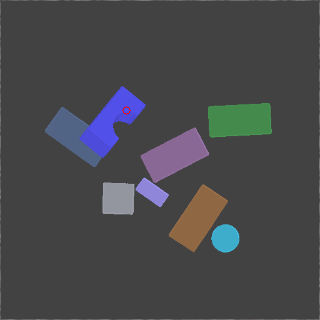
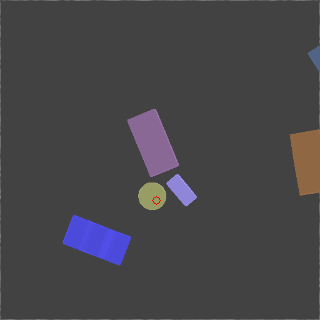
fix some bugs

Changed region(s): [[0.125, 0.25, 0.875, 0.8438], [0.9062, 0.4062, 1.0, 0.625], [0.9688, 0.125, 1.0, 0.2188]]

diff --git a/main_irb360.py b/main_irb360.py
@@ -428,10 +428,19 @@ def main(args):
         empty_threshold = 200  # 기존 300 → 200으로 낮춤
         if is_sim and is_testing:
             empty_threshold = 10
-        if np.sum(stuff_count) < empty_threshold or (is_sim and no_change_count[0] > 10):
+        
+        # 실제 물체 개수 체크 (1개 이하면 씬 재시작)
+        actual_object_count = len(robot.object_handles) if hasattr(robot, 'object_handles') else 0
+        objects_too_few = is_sim and actual_object_count <= 1
+        
+        if objects_too_few:
+            print(f'[RESET] Too few objects remaining ({actual_object_count} <= 1)! Restarting scene...')
+        
+        if np.sum(stuff_count) < empty_threshold or (is_sim and no_change_count[0] > 10) or objects_too_few:
             no_change_count = [0]
             if is_sim:
-                print('Not enough objects in view (value: %d)! Repositioning objects.' % (np.sum(stuff_count)))
+                if not objects_too_few:
+                    print('Not enough objects in view (value: %d)! Repositioning objects.' % (np.sum(stuff_count)))
                 robot.restart_sim()
                 robot.add_objects()
                 if is_testing: # If at end of test run, re-load original weights (before test run)
@@ -634,7 +643,7 @@ if __name__ == '__main__':
     parser.add_argument('--method', dest='method', action='store', default='reinforcement',                               help='set to \'reactive\' (supervised learning) or \'reinforcement\' (reinforcement learning ie Q-learning)')
     parser.add_argument('--grasp_rewards', dest='grasp_rewards', action='store_true', default=True,                        help='use immediate rewards (from change detection) for pushing?')
     parser.add_argument('--future_reward_discount', dest='future_reward_discount', type=float, action='store', default=0.2)  # 논문 기준: γ = 0.2
-    parser.add_argument('--experience_replay', dest='experience_replay', action='store_true', default=False,              help='use prioritized experience replay?')
+    parser.add_argument('--experience_replay', dest='experience_replay', action='store_true', default=True,              help='use prioritized experience replay?')
     parser.add_argument('--double_dqn', dest='double_dqn', action='store_true', default=False,                            help='use Double DQN for more stable learning (prevents Q-value overestimation)')
     parser.add_argument('--target_update_freq', dest='target_update_freq', type=int, action='store', default=100,         help='frequency of target network update for Double DQN (iterations)')
     parser.add_argument('--dueling_dqn', dest='dueling_dqn', action='store_true', default=False,                          help='use Dueling DQN architecture (Value + Advantage streams)')

diff --git a/DQNTrainer.py b/DQNTrainer.py
@@ -593,20 +593,23 @@ class DQNTrainer(object):
                 grasp_loss.backward()
                 loss_value = grasp_loss.cpu().data.numpy()
 
-                opposite_rotate_idx = int((best_pix_ind[0] + self.model.num_rotations/2) % self.model.num_rotations)
+                # Opposite rotation backward: num_rotations > 1일 때만 수행
+                # num_rotations=1일 때 opposite_rotate_idx=0이므로 같은 rotation에 대해 
+                # 두 번 backward하게 되어 gradient가 2배가 됨 (learning rate 2배 효과)
+                # → 학습 불안정성 초래할 수 있으므로 스킵
+                if self.model.num_rotations > 1:
+                    opposite_rotate_idx = int((best_pix_ind[0] + self.model.num_rotations/2) % self.model.num_rotations)
 
-                grasp_predictions, state_feat = self.forward(color_heightmap, depth_heightmap, is_volatile=False, specific_rotation=opposite_rotate_idx)
+                    grasp_predictions, state_feat = self.forward(color_heightmap, depth_heightmap, is_volatile=False, specific_rotation=opposite_rotate_idx)
 
-                if self.use_cuda:
-                    grasp_loss = self.criterion(self.model.output_prob[0][0].view(1, output_size[0], output_size[1]), Variable(torch.from_numpy(label).float().cuda())) * Variable(torch.from_numpy(label_weights).float().cuda(),requires_grad=False)
-                else:
-                    grasp_loss = self.criterion(self.model.output_prob[0][0].view(1, output_size[0], output_size[1]), Variable(torch.from_numpy(label).float())) * Variable(torch.from_numpy(label_weights).float(),requires_grad=False)
+                    if self.use_cuda:
+                        grasp_loss = self.criterion(self.model.output_prob[0][0].view(1, output_size[0], output_size[1]), Variable(torch.from_numpy(label).float().cuda())) * Variable(torch.from_numpy(label_weights).float().cuda(),requires_grad=False)
+                    else:
+                        grasp_loss = self.criterion(self.model.output_prob[0][0].view(1, output_size[0], output_size[1]), Variable(torch.from_numpy(label).float())) * Variable(torch.from_numpy(label_weights).float(),requires_grad=False)
 
-                grasp_loss = grasp_loss.sum()
-                grasp_loss.backward()
-                loss_value = grasp_loss.cpu().data.numpy()
-                
-                loss_value = loss_value/2
+                    grasp_loss = grasp_loss.sum()
+                    grasp_loss.backward()
+                    loss_value = (loss_value + grasp_loss.cpu().data.numpy()) / 2  # 두 loss 평균
 
             print('Training loss: %f' % (loss_value))
             self.optimizer.step()

diff --git a/DQNModels.py b/DQNModels.py
@@ -181,9 +181,44 @@ class DQN(nn.Module):
         return interm_feat
 
     def _initialize_weights(self):
-        for m in self.modules():
-            if isinstance(m, nn.Conv2d): 
-                nn.init.kaiming_normal_(m.weight.data)
-            elif isinstance(m, nn.BatchNorm2d):
-                nn.init.constant_(m.weight, 1)
-                nn.init.constant_(m.bias, 0)
+        """
+        새로 추가된 레이어만 초기화 (Pretrained DenseNet 백본 제외)
+        
+        주의: self.modules()는 모든 하위 모듈을 순회하므로,
+        feature_tunk.dense121의 pretrained weights까지 덮어쓰게 됨.
+        따라서 새로 추가된 레이어(graspnet, value_stream, advantage_stream)만 초기화.
+        """
+        # 초기화할 레이어 목록 (pretrained backbone 제외)
+        layers_to_init = []
+        
+        if self.dueling:
+            # Dueling DQN: value_stream, advantage_stream
+            layers_to_init.extend([self.value_stream, self.advantage_stream])
+        else:
+            # Standard DQN: graspnet
+            layers_to_init.append(self.graspnet)
+        
+        # feature_tunk의 새로 추가된 레이어도 초기화 (color_extractor, depth_extractor)
+        # 단, dense121은 pretrained이므로 제외
+        layers_to_init.extend([
+            self.feature_tunk.color_extractor,
+            self.feature_tunk.depth_extractor
+        ])
+        
+        # dense121.conv0만 초기화 (4채널 입력용으로 새로 생성된 레이어)
+        nn.init.kaiming_normal_(self.feature_tunk.dense121.conv0.weight, mode='fan_out', nonlinearity='relu')
+        
+        # 지정된 레이어만 초기화
+        for layer in layers_to_init:
+            for m in layer.modules():
+                if isinstance(m, nn.Conv2d): 
+                    nn.init.kaiming_normal_(m.weight.data, mode='fan_out', nonlinearity='relu')
+                elif isinstance(m, nn.BatchNorm2d):
+                    nn.init.constant_(m.weight, 1)
+                    nn.init.constant_(m.bias, 0)
+                elif isinstance(m, nn.Linear):
+                    nn.init.kaiming_normal_(m.weight.data)
+                    if m.bias is not None:
+                        nn.init.constant_(m.bias, 0)
+        
+        print('[DQN] Initialized new layers only (DenseNet pretrained backbone preserved)')

diff --git a/test/robot_zmq_irb360.py b/test/robot_zmq_irb360.py
@@ -570,7 +570,7 @@ class RobotIRB360ZMQ(object):
             location_above_grasp_target = [
                 position[0], 
                 position[1], 
-                0.5
+                0.3
             ]
             
             # 1. Pick 위치 위로 이동
@@ -608,11 +608,12 @@ class RobotIRB360ZMQ(object):
             min_vacuum_z = 0  # VacuumCup이 바닥에서 최소 3cm
             min_ikTarget_z = min_vacuum_z + vacuum_cup_offset  # ikTarget 최소 높이
             
-            descent_step = 0.01  # 1cm씩 하강
+            descent_step = 0.015  # 1cm씩 하강
             max_iterations = 50
             
             current_z = location_above_grasp_target[2]
             object_found = False
+            grasped_object_handle = None  # 집힌 물체의 핸들 저장
             
             print(f'[GRASP] Starting descent from Z={current_z:.4f}m')
             print(f'[GRASP] Min ikTarget Z={min_ikTarget_z:.4f}m (VacuumCup at {min_vacuum_z:.4f}m)')
@@ -636,6 +637,7 @@ class RobotIRB360ZMQ(object):
                                 object_found = True
                                 detected = True
                                 detected_distance = distance
+                                grasped_object_handle = obj_handle  # 감지된 물체 핸들 저장
                                 break
                     except:
                         pass
@@ -738,6 +740,11 @@ class RobotIRB360ZMQ(object):
                 print('[GRASP] Step 11: Returning to home')
                 self.move_to(self.home_position, 0)
                 time.sleep(0.5)
+                
+                # 12. 성공한 물체를 object_handles에서 제거 (물체 개수 추적용)
+                if grasped_object_handle is not None and grasped_object_handle in self.object_handles:
+                    self.object_handles.remove(grasped_object_handle)
+                    print(f'[GRASP] Removed object from tracking (remaining: {len(self.object_handles)})')
                 
                 print('[SUCCESS] Pick and Place complete!')
                 return True
